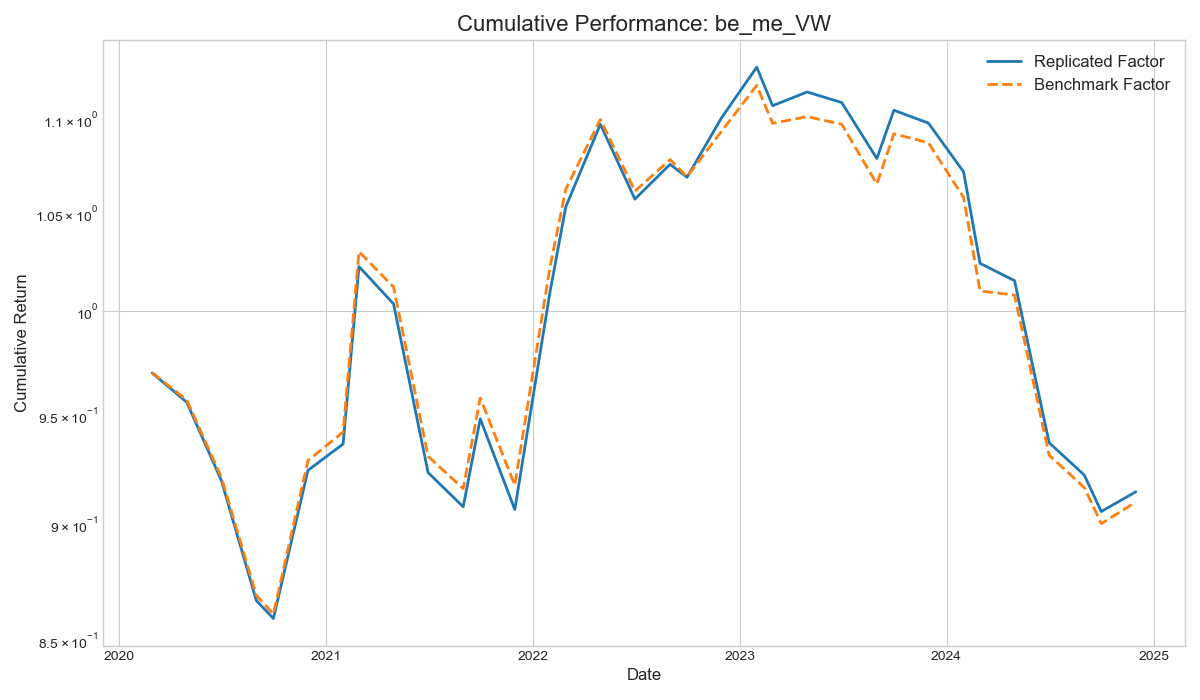
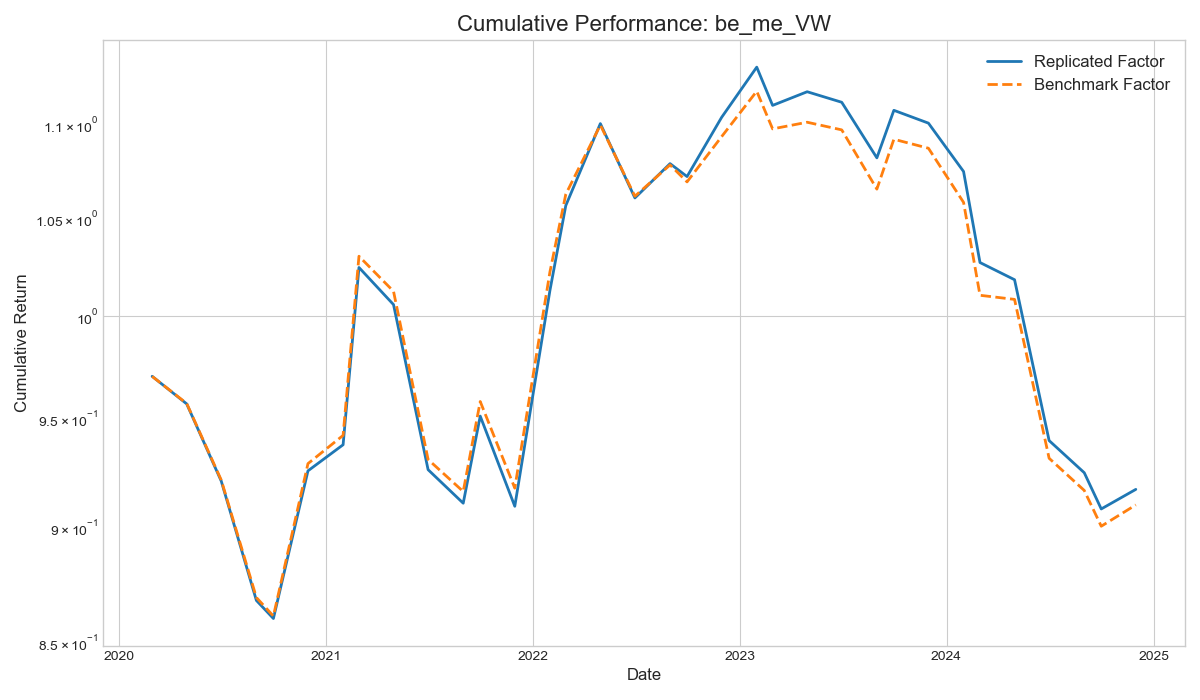
Results: Add analysis for 2020-present period

diff --git a/config/settings.py b/config/settings.py
@@ -11,8 +11,8 @@ PROJECT_ROOT = Path(__file__).resolve().parent.parent
 
 # --- Data Ingestion Settings ---
 # The single source of truth for the analysis start date.
-# START_DATE_STR = '2020-01-01' # setting 1
-START_DATE_STR = '1963-07-01' # setting 2
+START_DATE_STR = '2020-01-01' # setting 1
+# START_DATE_STR = '1963-07-01' # setting 2
 # START_DATE_STR = '2000-01-01' # setting 3
 
 # --- Validation Settings ---
